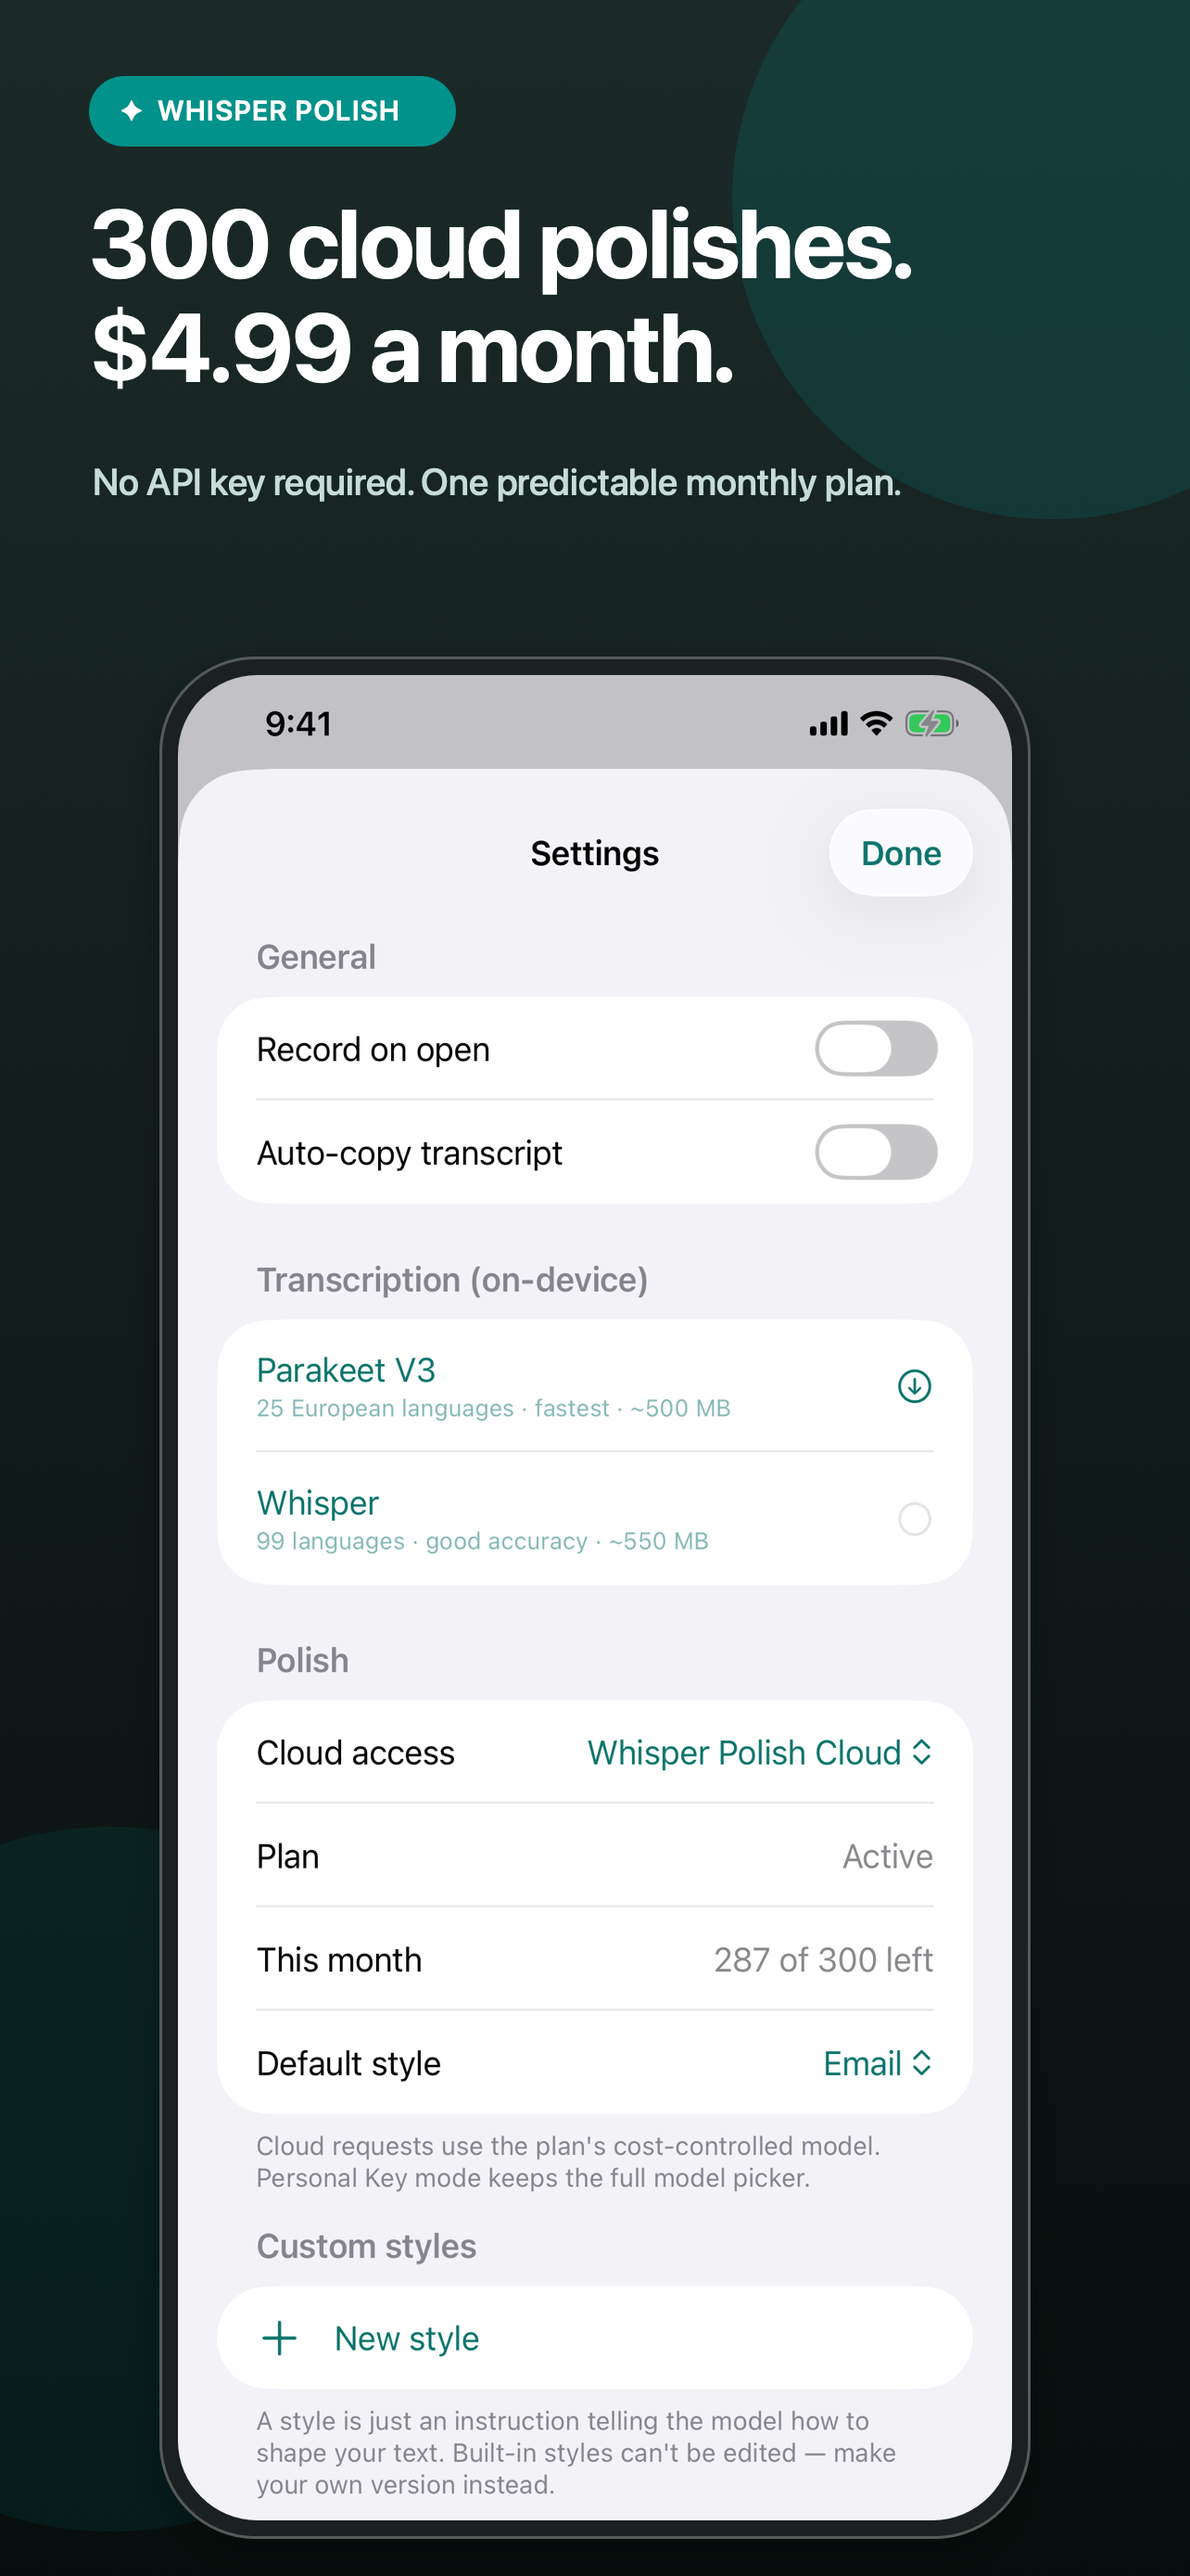
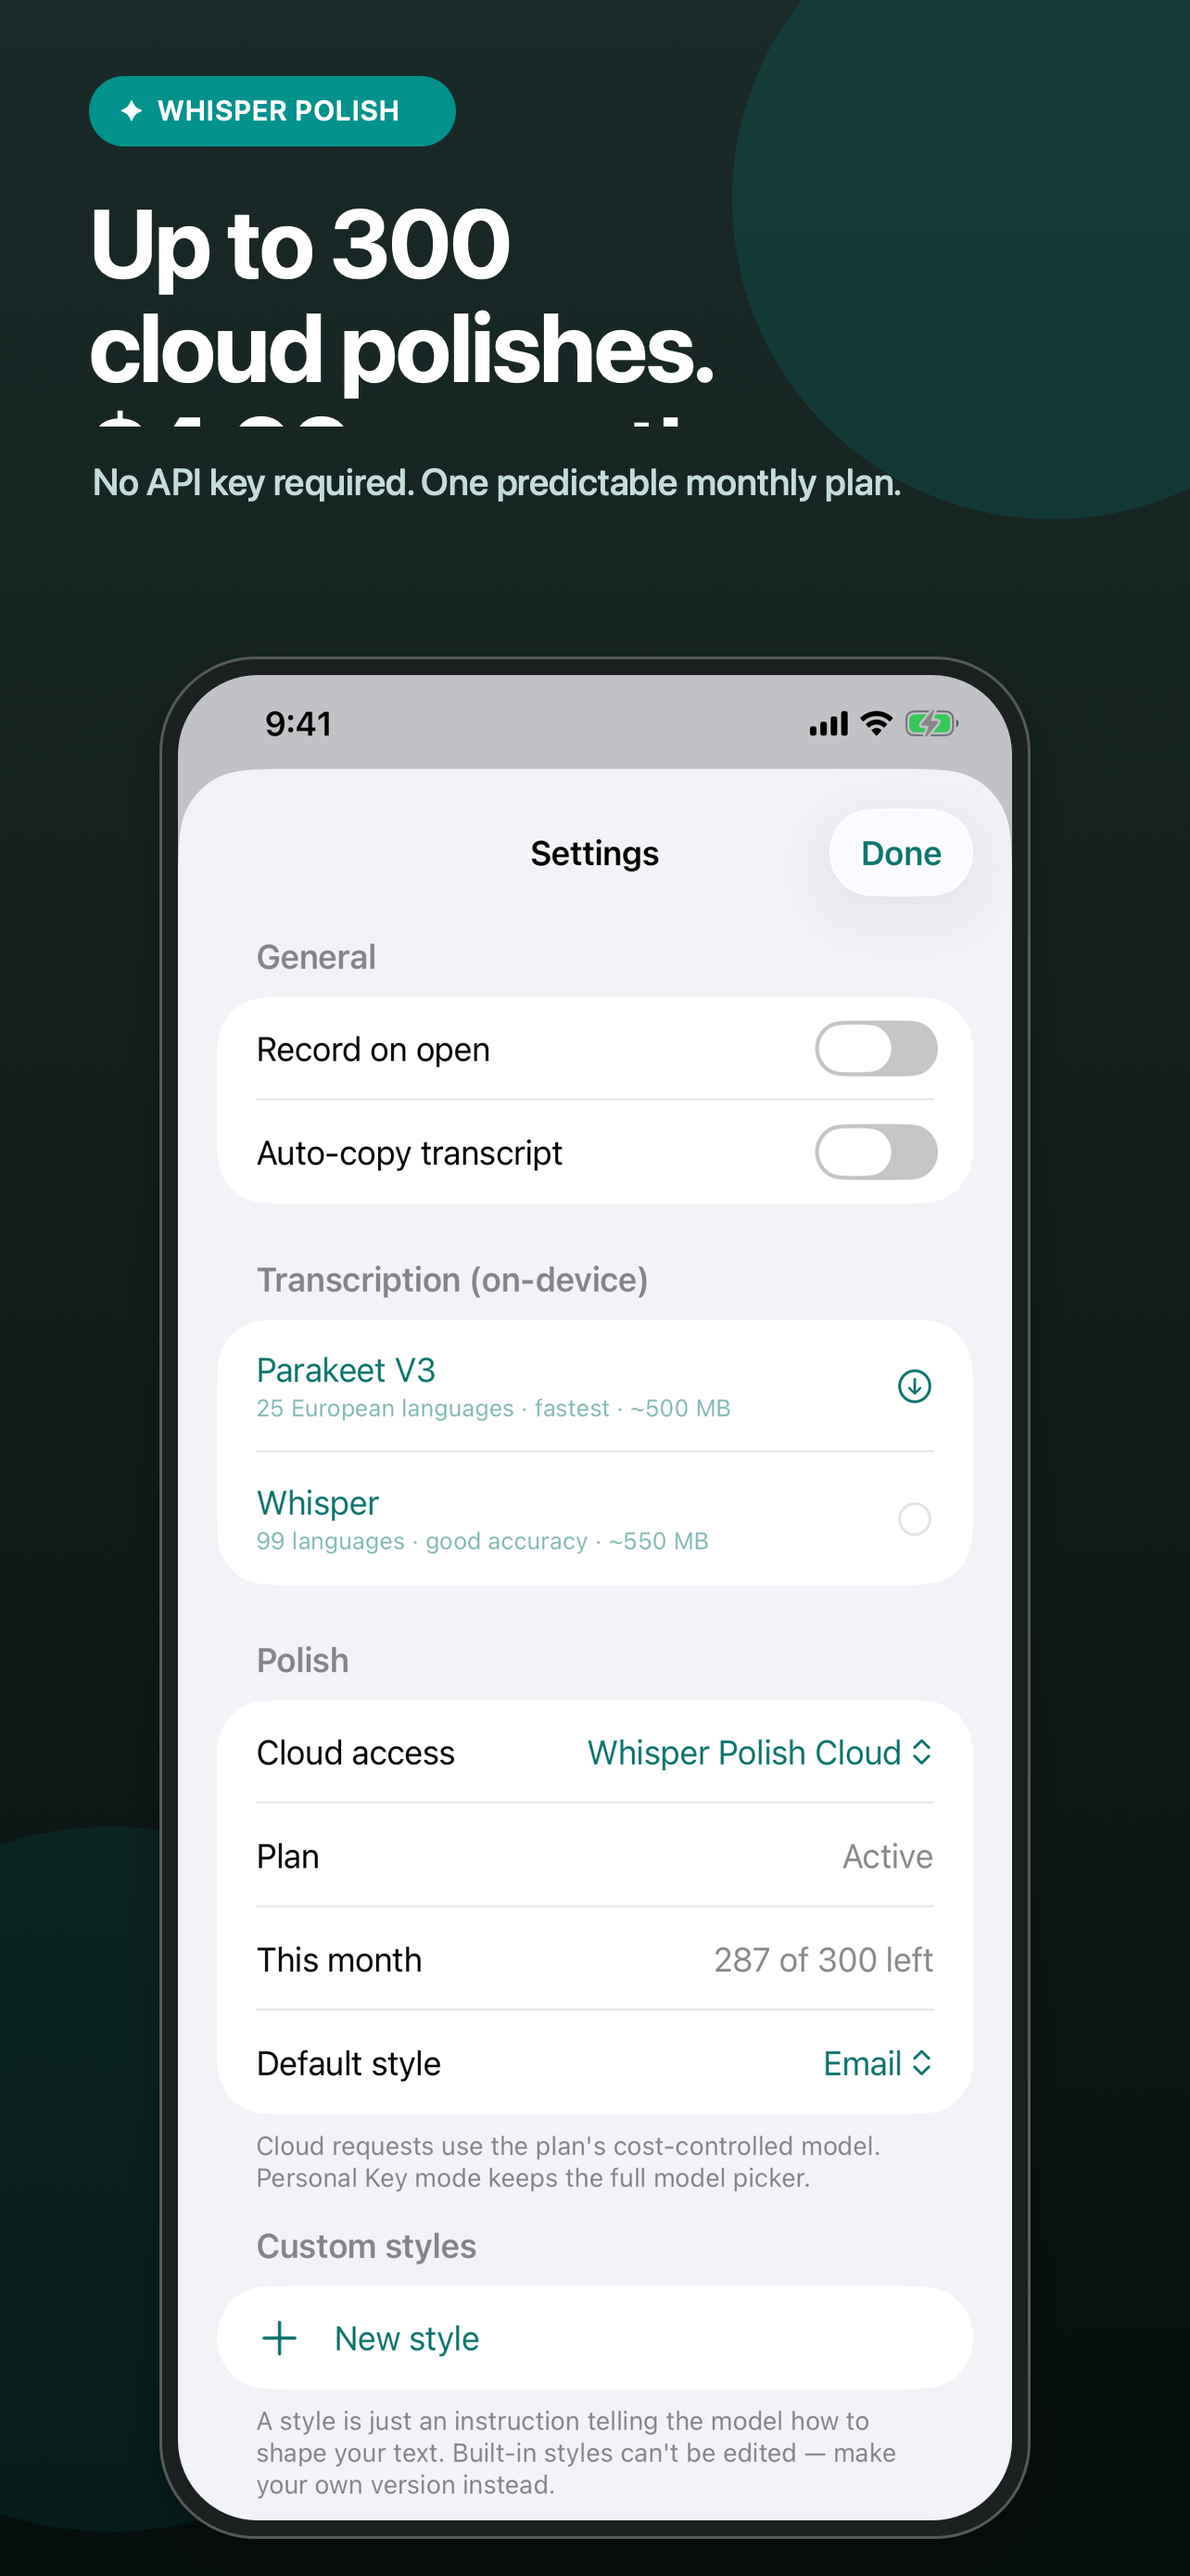
Deploy production cloud service and upload-ready build

Changed region(s): [[0.0623, 0.0619, 0.7477, 0.1548]]

diff --git a/backend/src/openrouter-polisher.test.ts b/backend/src/openrouter-polisher.test.ts
@@ -7,6 +7,23 @@ const input = {
 };
 
 describe("OpenRouterPolisher", () => {
+  it("accepts the approved GLM 5.2 launch price", async () => {
+    const fetcher = vi.fn<typeof fetch>()
+      .mockResolvedValueOnce(json({
+        data: [{
+          id: "z-ai/glm-5.2",
+          pricing: { prompt: "0.0000005586", completion: "0.0000017556" },
+        }],
+      }))
+      .mockResolvedValueOnce(json({
+        choices: [{ message: { content: "Finished" } }],
+        usage: { cost: 0.0042 },
+      }));
+
+    await expect(new OpenRouterPolisher("secret", "z-ai/glm-5.2", fetcher).polish(input))
+      .resolves.toMatchObject({ text: "Finished" });
+  });
+
   it("returns metered cost and applies bounded privacy-conscious parameters", async () => {
     const fetcher = vi.fn<typeof fetch>()
       .mockResolvedValueOnce(json({
@@ -29,7 +46,7 @@ describe("OpenRouterPolisher", () => {
 
   it("refuses to spend when model pricing exceeds the approved ceiling", async () => {
     const fetcher = vi.fn<typeof fetch>().mockResolvedValue(json({
-      data: [{ id: "z-ai/glm-5.2", pricing: { prompt: "0.0000006", completion: "0.0000012" } }],
+      data: [{ id: "z-ai/glm-5.2", pricing: { prompt: "0.00000061", completion: "0.0000012" } }],
     }));
 
     await expect(new OpenRouterPolisher("secret", "z-ai/glm-5.2", fetcher).polish(input))

diff --git a/WhisperPolish/Views/SettingsView.swift b/WhisperPolish/Views/SettingsView.swift
@@ -87,11 +87,11 @@ struct SettingsView: View {
                         if let usage = subscription.usage {
                             LabeledContent("This month", value: "\(usage.remaining) of \(usage.limit) left")
                         } else {
-                            LabeledContent("Included", value: "\(CloudPlan.monthlyPolishLimit) polishes/month")
+                            LabeledContent("Included", value: "Up to \(CloudPlan.monthlyPolishLimit) polishes/month")
                         }
                     } else {
                         VStack(alignment: .leading, spacing: 4) {
-                            Text("\(CloudPlan.monthlyPolishLimit) cloud polishes each month")
+                            Text("Up to \(CloudPlan.monthlyPolishLimit) cloud polishes each month")
                                 .font(.subheadline.weight(.semibold))
                             Text("\(subscription.priceText) per month · cancel anytime")
                                 .font(.caption)

diff --git a/backend/src/server.ts b/backend/src/server.ts
@@ -1,4 +1,5 @@
 import Fastify from "fastify";
+import rateLimit from "@fastify/rate-limit";
 import { Pool } from "pg";
 import { z } from "zod";
 import { AppleEntitlementVerifier } from "./apple-entitlement-verifier.js";
@@ -44,6 +45,7 @@ const application = new PolishApplication(
 );
 
 const server = Fastify({
+  trustProxy: ["loopback", "linklocal", "uniquelocal"],
   logger: {
     level: "info",
     redact: ["req.headers.authorization"],
@@ -51,9 +53,18 @@ const server = Fastify({
   bodyLimit: 32 * 1024,
 });
 
+await server.register(rateLimit, { global: false });
+
 server.get("/health", async () => ({ ok: true }));
 
-server.post("/v1/polish", async (request, reply) => {
+server.post("/v1/polish", {
+  config: {
+    rateLimit: {
+      max: 30,
+      timeWindow: "1 minute",
+    },
+  },
+}, async (request, reply) => {
   const authorization = request.headers.authorization;
   const transactionJWS = authorization?.startsWith("Bearer ")
     ? authorization.slice("Bearer ".length)

diff --git a/backend/src/apple-entitlement-verifier.test.ts b/backend/src/apple-entitlement-verifier.test.ts
@@ -1,0 +1,21 @@
+import { mkdtempSync, readFileSync, writeFileSync } from "node:fs";
+import { tmpdir } from "node:os";
+import { join } from "node:path";
+import { describe, expect, it } from "vitest";
+import { AppleEntitlementVerifier } from "./apple-entitlement-verifier.js";
+
+describe("AppleEntitlementVerifier", () => {
+  it("ignores hidden AppleDouble files beside root certificates", () => {
+    const directory = mkdtempSync(join(tmpdir(), "apple-roots-"));
+    const root = new URL("../certs/AppleRootCA-G3.cer", import.meta.url);
+    writeFileSync(join(directory, "AppleRootCA-G3.cer"), readFileSync(root));
+    writeFileSync(join(directory, "._AppleRootCA-G3.cer"), "not a certificate");
+
+    expect(() => new AppleEntitlementVerifier({
+      bundleId: "com.example.App",
+      appAppleId: 123,
+      rootCertificatesDirectory: directory,
+      enableOnlineChecks: false,
+    })).not.toThrow();
+  });
+});

diff --git a/backend/src/apple-entitlement-verifier.ts b/backend/src/apple-entitlement-verifier.ts
@@ -17,7 +17,7 @@ export class AppleEntitlementVerifier implements EntitlementVerifier {
     enableOnlineChecks?: boolean;
   }) {
     const roots = readdirSync(options.rootCertificatesDirectory)
-      .filter((name) => name.endsWith(".cer"))
+      .filter((name) => !name.startsWith(".") && name.endsWith(".cer"))
       .map((name) => readFileSync(join(options.rootCertificatesDirectory, name)));
     if (!roots.length) throw new Error("No Apple root certificates found.");
     const online = options.enableOnlineChecks ?? true;

diff --git a/WhisperPolish/Views/OnboardingView.swift b/WhisperPolish/Views/OnboardingView.swift
@@ -179,7 +179,7 @@ struct OnboardingView: View {
                 }
             } else {
                 VStack(alignment: .leading, spacing: 6) {
-                    Text("\(CloudPlan.monthlyPolishLimit) cloud polishes per month")
+                    Text("Up to \(CloudPlan.monthlyPolishLimit) cloud polishes per month")
                         .font(.headline)
                     Text("\(subscription.priceText)/month · cancel anytime")
                         .font(.subheadline)

diff --git a/AppStore/Scripts/render-marketing-screenshots.swift b/AppStore/Scripts/render-marketing-screenshots.swift
@@ -214,7 +214,7 @@ let slides = [
     Slide(
         source: "04-cloud-plan.png",
         output: "04-simple-cloud-plan.png",
-        headline: "300 cloud polishes.\n$4.99 a month.",
+        headline: "Up to 300 cloud polishes.\n$4.99 a month.",
         subhead: "No API key required. One predictable monthly plan.",
         backgroundTop: NSColor(hex: 0x15201E),
         backgroundBottom: NSColor(hex: 0x080D0C),

diff --git a/backend/src/openrouter-polisher.ts b/backend/src/openrouter-polisher.ts
@@ -10,8 +10,8 @@ export class OpenRouterPolisher implements CloudPolisher {
     private readonly model = "z-ai/glm-5.2",
     private readonly fetcher: typeof fetch = fetch,
     private readonly maximumPricePerToken = {
-      prompt: 0.0000005,
-      completion: 0.0000015,
+      prompt: 0.0000006,
+      completion: 0.0000019,
     },
   ) {}
 

diff --git a/README.md b/README.md
@@ -8,7 +8,7 @@ Whisper Polish is a free, open-source iPhone voice-notes app. Recording and tran
 - Typed and recorded notes stored locally with SwiftData
 - Built-in and custom rewrite styles
 - Personal Key mode with the key stored in the iOS Keychain
-- Optional monthly cloud plan with 300 polishes per billing period
+- Optional monthly cloud plan with up to 300 polishes per billing period
 - Fact checking with live web search in Personal Key mode
 
 ## Build the iOS app
@@ -36,7 +36,7 @@ The included `WhisperPolish.storekit` file supplies a local $4.99 monthly produc
 
 ## Cloud service
 
-Personal Key mode talks directly to OpenRouter and does not need the backend. Subscription mode sends the App Store-signed StoreKit transaction to the service on every request; the server verifies it and enforces the 300-polish allowance without creating a separate user account.
+Personal Key mode talks directly to OpenRouter and does not need the backend. Subscription mode sends the App Store-signed StoreKit transaction to the service on every request; the server verifies it and enforces the plan allowance without creating a separate user account.
 
 Build with the service's HTTPS base URL:
 

diff --git a/backend/README.md b/backend/README.md
@@ -4,7 +4,7 @@ The cloud service is a portable Node.js API backed by Postgres. It:
 
 - verifies StoreKit 2 signed transactions using Apple's official server library;
 - accepts only the configured Whisper Polish subscription product;
-- provides at most 300 successful polish reservations per renewal transaction;
+- provides up to 300 successful polish reservations per renewal transaction;
 - makes idempotent requests safe to retry;
 - caps notes at 8,000 UTF-8 bytes and output at 2,000 tokens;
 - stops a billing period if wholesale model spend reaches $2.20, in addition to the 300-request limit;
@@ -16,7 +16,7 @@ The cloud service is a portable Node.js API backed by Postgres. It:
 
 1. Start Postgres and create a database.
 2. Copy `.env.example` to `.env` and replace every placeholder.
-3. Download Apple's current root certificates from the Apple PKI page into `certs/`.
+3. Refresh the bundled root certificates in `certs/` from Apple's PKI page when Apple changes its published roots.
 4. Install and run:
 
 ```sh

diff --git a/AppStore/submission.md b/AppStore/submission.md
@@ -28,7 +28,7 @@ swift AppStore/Scripts/render-marketing-screenshots.swift AppStore
 - Subscription Apple ID: 6800487749
 - Duration: 1 month
 - U.S. price: $4.99
-- Included usage: 300 cloud polishes per billing period
+- Included usage: Up to 300 cloud polishes per billing period
 - Family Sharing: Off
 
 Use `Screenshots/iphone-65/04-cloud-plan.png` as the subscription review screenshot.
@@ -37,7 +37,7 @@ Use `Screenshots/iphone-65/04-cloud-plan.png` as the subscription review screens
 
 Whisper Polish does not require an account. Recording and transcription work on-device.
 The optional Personal Key mode requires a user-provided OpenRouter API key. The optional
-Whisper Polish Cloud mode is unlocked by the auto-renewable subscription and includes 300
+Whisper Polish Cloud mode is unlocked by the auto-renewable subscription and includes up to 300
 cloud polishes per month. No reviewer credentials are required.
 
 ## App privacy answers

diff --git a/deploy/README.md b/deploy/README.md
@@ -1,0 +1,24 @@
+# Cloud deployment
+
+Production runs on the `whisper-polish-api` Lightsail instance in `us-east-1`.
+Docker Compose keeps the API and Postgres private behind Caddy, which terminates
+TLS for `api.whisper-polish.yallware.com`.
+
+The host uses Ubuntu 24.04 with the distribution packages `docker.io` and
+`docker-compose-v2`. Its static IP is attached in Lightsail and the API hostname
+is an A record in the `yallware.com` Route 53 zone.
+
+The uncommitted production `.env` must define `POSTGRES_PASSWORD` and
+`OPENROUTER_API_KEY`. The OpenRouter key is sourced from AWS Secrets Manager.
+
+From the repository root on the server:
+
+```sh
+cd deploy
+docker compose up -d --build
+docker compose ps
+curl --fail https://api.whisper-polish.yallware.com/health
+```
+
+Back up the `deploy_postgres_data` volume before host replacement or destructive
+database maintenance.
